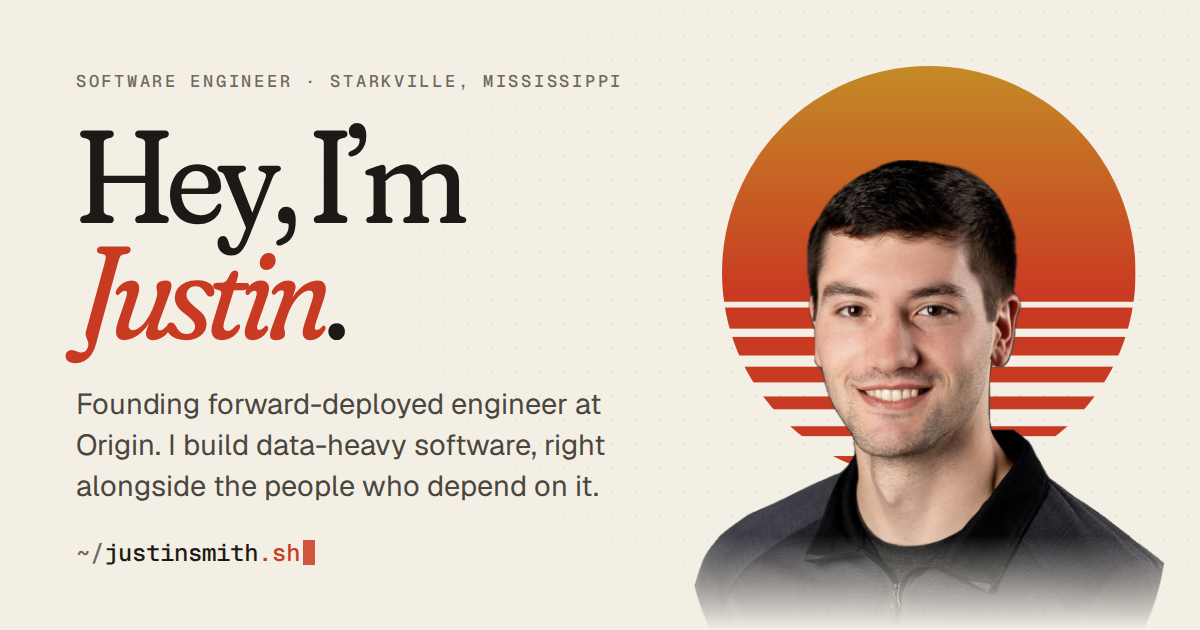
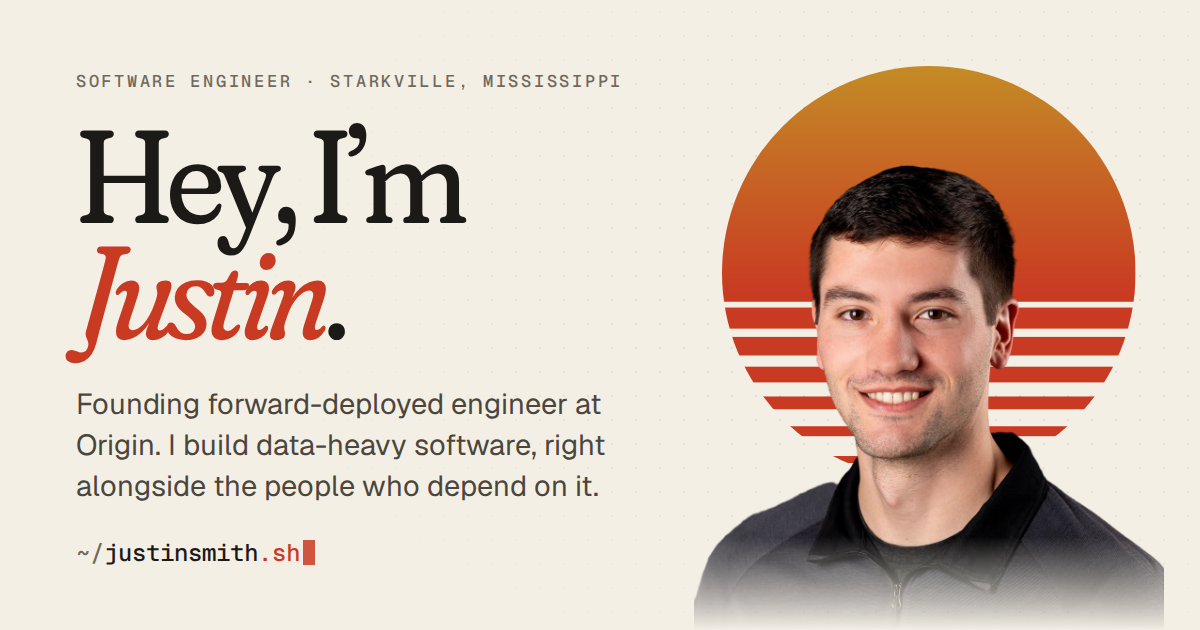
Use the studio headshot and introduce Scout
- Replace the hero cut-out with one made from the clean studio
  headshot: matted with a portrait segmentation model, colours taken
  from the original photo, and backdrop spill removed so edges stay
  clean on both themes. Regenerate the share image to match.
- Add a "Meet Scout" card to the Life section with three photos, his
  story, and trace-style attributes; his face replaces the paw icon in
  the field guide. Tags on the grown-up photo are blurred so the
  engraved contact details aren't readable.
- New pond facts, a walk-with-Scout morning status, a birthday status
  on September 1, and `scout` / `pet` commands in the shell.

Claude-Session: https://claude.ai/code/session_01WgbHKA74U94apV8zkniG2x

diff --git a/components/home/scout-card.tsx b/components/home/scout-card.tsx
@@ -1,0 +1,68 @@
+import Image from "next/image";
+import { scout } from "@/lib/life";
+import { cn } from "@/lib/utils";
+
+// Three polaroids fanned out: day one, Christmas, all grown up.
+const fan = ["-rotate-[5deg] translate-y-4", "rotate-1 -translate-y-1", "rotate-[5deg] translate-y-5"];
+
+const attributes: [string, string][] = [
+  ["name", "scout"],
+  ["breed", "springer spaniel"],
+  ["born", scout.born],
+  ["drive_home", "3.5 hours"],
+  ["status", "good boy"],
+];
+
+export function ScoutCard() {
+  return (
+    <article
+      aria-labelledby="scout-title"
+      className="card-surface reveal mt-16 grid overflow-hidden lg:grid-cols-[1.2fr_1fr]"
+    >
+      <div className="relative order-2 flex items-center overflow-hidden bg-[linear-gradient(150deg,rgb(var(--gold)/0.22),rgb(var(--accent)/0.1)_55%,rgb(var(--pine)/0.14))] px-4 pb-14 pt-10 sm:px-10 lg:order-1 lg:py-14">
+        <div aria-hidden="true" className="bg-dots absolute inset-0 opacity-50" />
+        <ul className="relative mx-auto grid w-full max-w-[620px] grid-cols-3 items-center gap-3 sm:gap-5">
+          {scout.photos.map((p, i) => (
+            <li key={p.src} className="relative">
+              <figure
+                className={cn(
+                  "relative rounded-[6px] bg-card p-2 pb-2.5 shadow-[0_1px_2px_rgb(var(--shadow)/0.12),0_22px_40px_-22px_rgb(var(--shadow)/0.6)] ring-1 ring-rule/60 transition-transform duration-300 ease-out hover:z-20 hover:rotate-0 hover:scale-105",
+                  fan[i],
+                )}
+              >
+                <div className="relative aspect-[3/4] overflow-hidden rounded-[3px] bg-paper-2">
+                  <Image src={p.src} alt={p.alt} fill sizes="(min-width: 1024px) 200px, 30vw" className="object-cover" />
+                </div>
+                <figcaption className="mt-2 px-0.5 font-display text-[0.92rem] italic leading-snug text-ink-2 font-wonk">
+                  {p.caption}
+                </figcaption>
+              </figure>
+            </li>
+          ))}
+        </ul>
+      </div>
+
+      <div className="order-1 flex flex-col justify-center p-7 sm:p-10 lg:order-2">
+        <p className="eyebrow">Resident good boy</p>
+        <h3
+          id="scout-title"
+          className="mt-4 font-display text-[clamp(2.2rem,4.5vw,3.2rem)] leading-[0.98] tracking-[-0.03em] font-soft"
+        >
+          Meet <span className="italic text-accent font-wonk">Scout</span>.
+        </h3>
+        <p className="mt-5 text-[1.08rem] leading-relaxed text-ink-2">
+          Our Springer Spaniel, born September 1, 2024. We drove three and a half hours to bring him home, and yes, I had
+          to convince my wife first. He&rsquo;s been worth every mile.
+        </p>
+        <dl className="mt-7 divide-y divide-rule/70 rounded-xl border border-rule/80 bg-paper/60 font-mono text-[0.76rem]">
+          {attributes.map(([k, v]) => (
+            <div key={k} className="flex justify-between gap-4 px-3.5 py-2">
+              <dt className="text-ink-3">{k}</dt>
+              <dd className={cn("text-right text-ink", k === "status" && "text-pine")}>{v}</dd>
+            </div>
+          ))}
+        </dl>
+      </div>
+    </article>
+  );
+}

diff --git a/components/shell/shell.tsx b/components/shell/shell.tsx
@@ -34,12 +34,15 @@ const HELP: [string, string][] = [
   ["theme <mode>", "light, dark, or system"],
   ["fish", "cast a line"],
   ["neofetch", "system info, sort of"],
+  ["scout", "meet the dog"],
   ["cowbell", "you know what to do"],
   ["clear", "clear the screen"],
   ["exit", "close the shell"],
 ];
 
-const COMMAND_NAMES = [...HELP.map(([c]) => c.split(" ")[0]), "history", "echo", "pwd", "sudo", "hire"];
+const COMMAND_NAMES = [...HELP.map(([c]) => c.split(" ")[0]), "history", "echo", "pwd", "sudo", "hire", "pet"];
+
+const DOG_ART = ["      __", " (___()'`;", " /,    /`", ' \\\\"--\\\\'].join("\n");
 
 const fmtMonth = (ym?: string) => {
   if (!ym) return "now";
@@ -202,7 +205,7 @@ export function Shell() {
       case "cat": {
         if (arg === "about.txt")
           return out(
-            "Born in Michigan, raised in Northeast Mississippi, and a Starkville local since my Mississippi State days.\nMy cousin helped me build my first computer, a Core 2 Duo desktop. I wanted it for games; I stayed for the software.\nThese days: data systems, customer problems, disc golf, bass fishing, and a Springer Spaniel in training.",
+            "Born in Michigan, raised in Northeast Mississippi, and a Starkville local since my Mississippi State days.\nMy cousin helped me build my first computer, a Core 2 Duo desktop. I wanted it for games; I stayed for the software.\nThese days: data systems, customer problems, disc golf, bass fishing, and Scout, our Springer Spaniel.",
           );
         if (arg === "resume.txt") return out(resumeText());
         if (arg === "contact.txt")
@@ -256,7 +259,7 @@ export function Shell() {
                 ["uptime", "5+ years shipping"],
                 ["langs", "python, typescript, rust, sql"],
                 ["hobbies", "disc golf, bass fishing, diy"],
-                ["dog", "springer spaniel (in training)"],
+                ["dog", "scout, springer spaniel"],
               ].map(([k, v]) => (
                 <span key={k}>
                   <span className="text-[#E3B04B]">{k.padEnd(9)}</span>
@@ -267,6 +270,19 @@ export function Shell() {
             </span>
           </span>,
         );
+      case "scout":
+        return out(
+          <span className="flex flex-wrap items-end gap-x-6 gap-y-2">
+            <span className="text-[#E3B04B]">{DOG_ART}</span>
+            <span>
+              Scout · Springer Spaniel · born 2024-09-01{"\n"}
+              drove 3.5 hours to bring him home.{"\n"}
+              <span className="text-[#7FC2A6]">status: good boy</span> (try &apos;pet&apos;)
+            </span>
+          </span>,
+        );
+      case "pet":
+        return out("Scout leans in for more. tail.wag_rate: high");
       case "cowbell":
         ringCowbell();
         return out("🔔 clank! more cowbell. Hail State!");

diff --git a/lib/life.ts b/lib/life.ts
@@ -9,14 +9,38 @@ export const photos = [
   { src: "/photos/sunset-bike-ride.jpg", alt: "Justin and his wife with bikes on a bridge at sunset", caption: "Sunset bike ride." },
 ] as const;
 
-export type Interest = { id: "disc" | "fish" | "dog" | "home"; name: string; note: string; detail: string };
+export type Interest = {
+  id: "disc" | "fish" | "dog" | "home";
+  name: string;
+  note: string;
+  detail: string;
+  /** Optional photo shown in place of the icon. */
+  avatar?: string;
+};
 
 export const interests: Interest[] = [
   { id: "disc", name: "Disc golf", note: "Casual leagues and competitive tournaments.", detail: "Habitat: wooded courses" },
   { id: "fish", name: "Bass fishing", note: "Early mornings on the water, waiting on a bite.", detail: "Habitat: any lake with a boat ramp" },
-  { id: "dog", name: "Our Springer Spaniel", note: "Training is ongoing. It is unclear who is training whom.", detail: "Habitat: wherever the tennis ball went" },
+  {
+    id: "dog",
+    name: "Scout, our Springer Spaniel",
+    note: "Training is ongoing. It is unclear who is training whom.",
+    detail: "Habitat: wherever the tennis ball went",
+    avatar: "/photos/scout-avatar.jpg",
+  },
   { id: "home", name: "Home projects", note: "DIY, landscaping, and a lot of painting.", detail: "Habitat: the garage" },
 ];
+
+export const scout = {
+  name: "Scout",
+  breed: "Springer Spaniel",
+  born: "2024-09-01",
+  photos: [
+    { src: "/photos/scout-puppy.jpg", alt: "Scout as a puppy, sitting in front of a stone wall", caption: "Day one." },
+    { src: "/photos/scout-christmas.jpg", alt: "Scout lying on a wood floor in front of a Christmas tree", caption: "Supervising Christmas." },
+    { src: "/photos/scout.jpg", alt: "Scout, grown up, sitting in a yard with pine trees behind him at sunset", caption: "All grown up." },
+  ],
+} as const;
 
 /** Every catch in the pond reels in one of these. */
 export const facts = [
@@ -32,7 +56,8 @@ export const facts = [
   "At Estuary I drafted an internal RFC on AI-assisted development with Claude Code.",
   "We honeymooned in Jamaica. Ziplines and coconut water were involved.",
   "I play disc golf in casual leagues and in competitive tournaments.",
-  "Our Springer Spaniel is in training. So am I, honestly.",
+  "Our Springer Spaniel, Scout, was born on September 1, 2024.",
+  "We drove three and a half hours to bring Scout home. I had to convince my wife first.",
   "I build and maintain the website for a psychiatry practice here in Starkville.",
 ];
 

diff --git a/lib/time.ts b/lib/time.ts
@@ -1,6 +1,6 @@
 import { site } from "./site";
 
-type Parts = { weekday: number; minutes: number; label: string; zone: string };
+type Parts = { weekday: number; minutes: number; label: string; zone: string; monthDay: string };
 
 const WEEKDAYS = ["Sun", "Mon", "Tue", "Wed", "Thu", "Fri", "Sat"];
 
@@ -19,11 +19,13 @@ export function starkvilleNow(date = new Date()): Parts {
     new Intl.DateTimeFormat("en-US", { timeZone: site.timeZone, hour: "numeric", hourCycle: "h23" }).format(date),
   );
   const minute = Number(parts.minute);
+  const monthDay = new Intl.DateTimeFormat("en-US", { timeZone: site.timeZone, month: "2-digit", day: "2-digit" }).format(date);
   return {
     weekday: WEEKDAYS.indexOf(parts.weekday),
     minutes: hour24 * 60 + minute,
     label: `${parts.hour}:${parts.minute} ${parts.dayPeriod}`,
     zone: parts.timeZoneName ?? "CT",
+    monthDay, // "MM/DD"
   };
 }
 
@@ -34,7 +36,7 @@ const at = (h: number, m = 0) => h * 60 + m;
 // A tongue-in-cheek guess at what I'm up to. Edit freely.
 const weekday: Slot[] = [
   { until: at(6), text: "Asleep, probably. Unless something's on fire." },
-  { until: at(8), text: "Coffee, inbox, and a walk with the Springer." },
+  { until: at(8), text: "Coffee, inbox, and a walk with Scout." },
   { until: at(12), text: "Heads-down on a customer problem at Origin." },
   { until: at(13), text: "Out to lunch. Back in a few." },
   { until: at(17, 30), text: "Shipping something for an Origin customer." },
@@ -51,7 +53,10 @@ const weekend: Slot[] = [
   { until: at(24), text: "Asleep, probably." },
 ];
 
-export function guessStatus(parts: Pick<Parts, "weekday" | "minutes">) {
+export function guessStatus(parts: Pick<Parts, "weekday" | "minutes" | "monthDay">) {
+  if (parts.monthDay === "09/01" && parts.minutes >= at(7) && parts.minutes < at(22)) {
+    return "Celebrating Scout's birthday. Extra treats all around.";
+  }
   const slots = parts.weekday === 0 || parts.weekday === 6 ? weekend : weekday;
   return (slots.find((s) => parts.minutes < s.until) ?? slots[slots.length - 1]).text;
 }

diff --git a/components/home/life.tsx b/components/home/life.tsx
@@ -4,6 +4,7 @@ import { SectionHeading } from "@/components/section-heading";
 import { DiscGolf, Fish, Paw, Roller } from "@/components/icons";
 import { cn } from "@/lib/utils";
 import { FishingPond } from "./fishing-pond";
+import { ScoutCard } from "./scout-card";
 
 const interestIcon: Record<Interest["id"], typeof Fish> = { disc: DiscGolf, fish: Fish, dog: Paw, home: Roller };
 const interestTint: Record<Interest["id"], string> = {
@@ -44,9 +45,19 @@ export function Life() {
                 const Icon = interestIcon[it.id];
                 return (
                   <li key={it.id} className="flex gap-4 py-5">
-                    <span className={cn("grid h-11 w-11 shrink-0 place-items-center rounded-full", interestTint[it.id])}>
-                      <Icon size={22} />
-                    </span>
+                    {it.avatar ? (
+                      <Image
+                        src={it.avatar}
+                        alt=""
+                        width={44}
+                        height={44}
+                        className="h-11 w-11 shrink-0 rounded-full object-cover ring-2 ring-gold/40"
+                      />
+                    ) : (
+                      <span className={cn("grid h-11 w-11 shrink-0 place-items-center rounded-full", interestTint[it.id])}>
+                        <Icon size={22} />
+                      </span>
+                    )}
                     <div>
                       <p className="font-display text-[1.3rem] leading-tight font-soft">{it.name}</p>
                       <p className="mt-1 text-ink-2">{it.note}</p>
@@ -59,6 +70,8 @@ export function Life() {
           </div>
           <FishingPond className="reveal lg:col-span-7 lg:self-start" />
         </div>
+
+        <ScoutCard />
 
         <div className="mt-20">
           <p className="eyebrow">From the camera roll</p>
